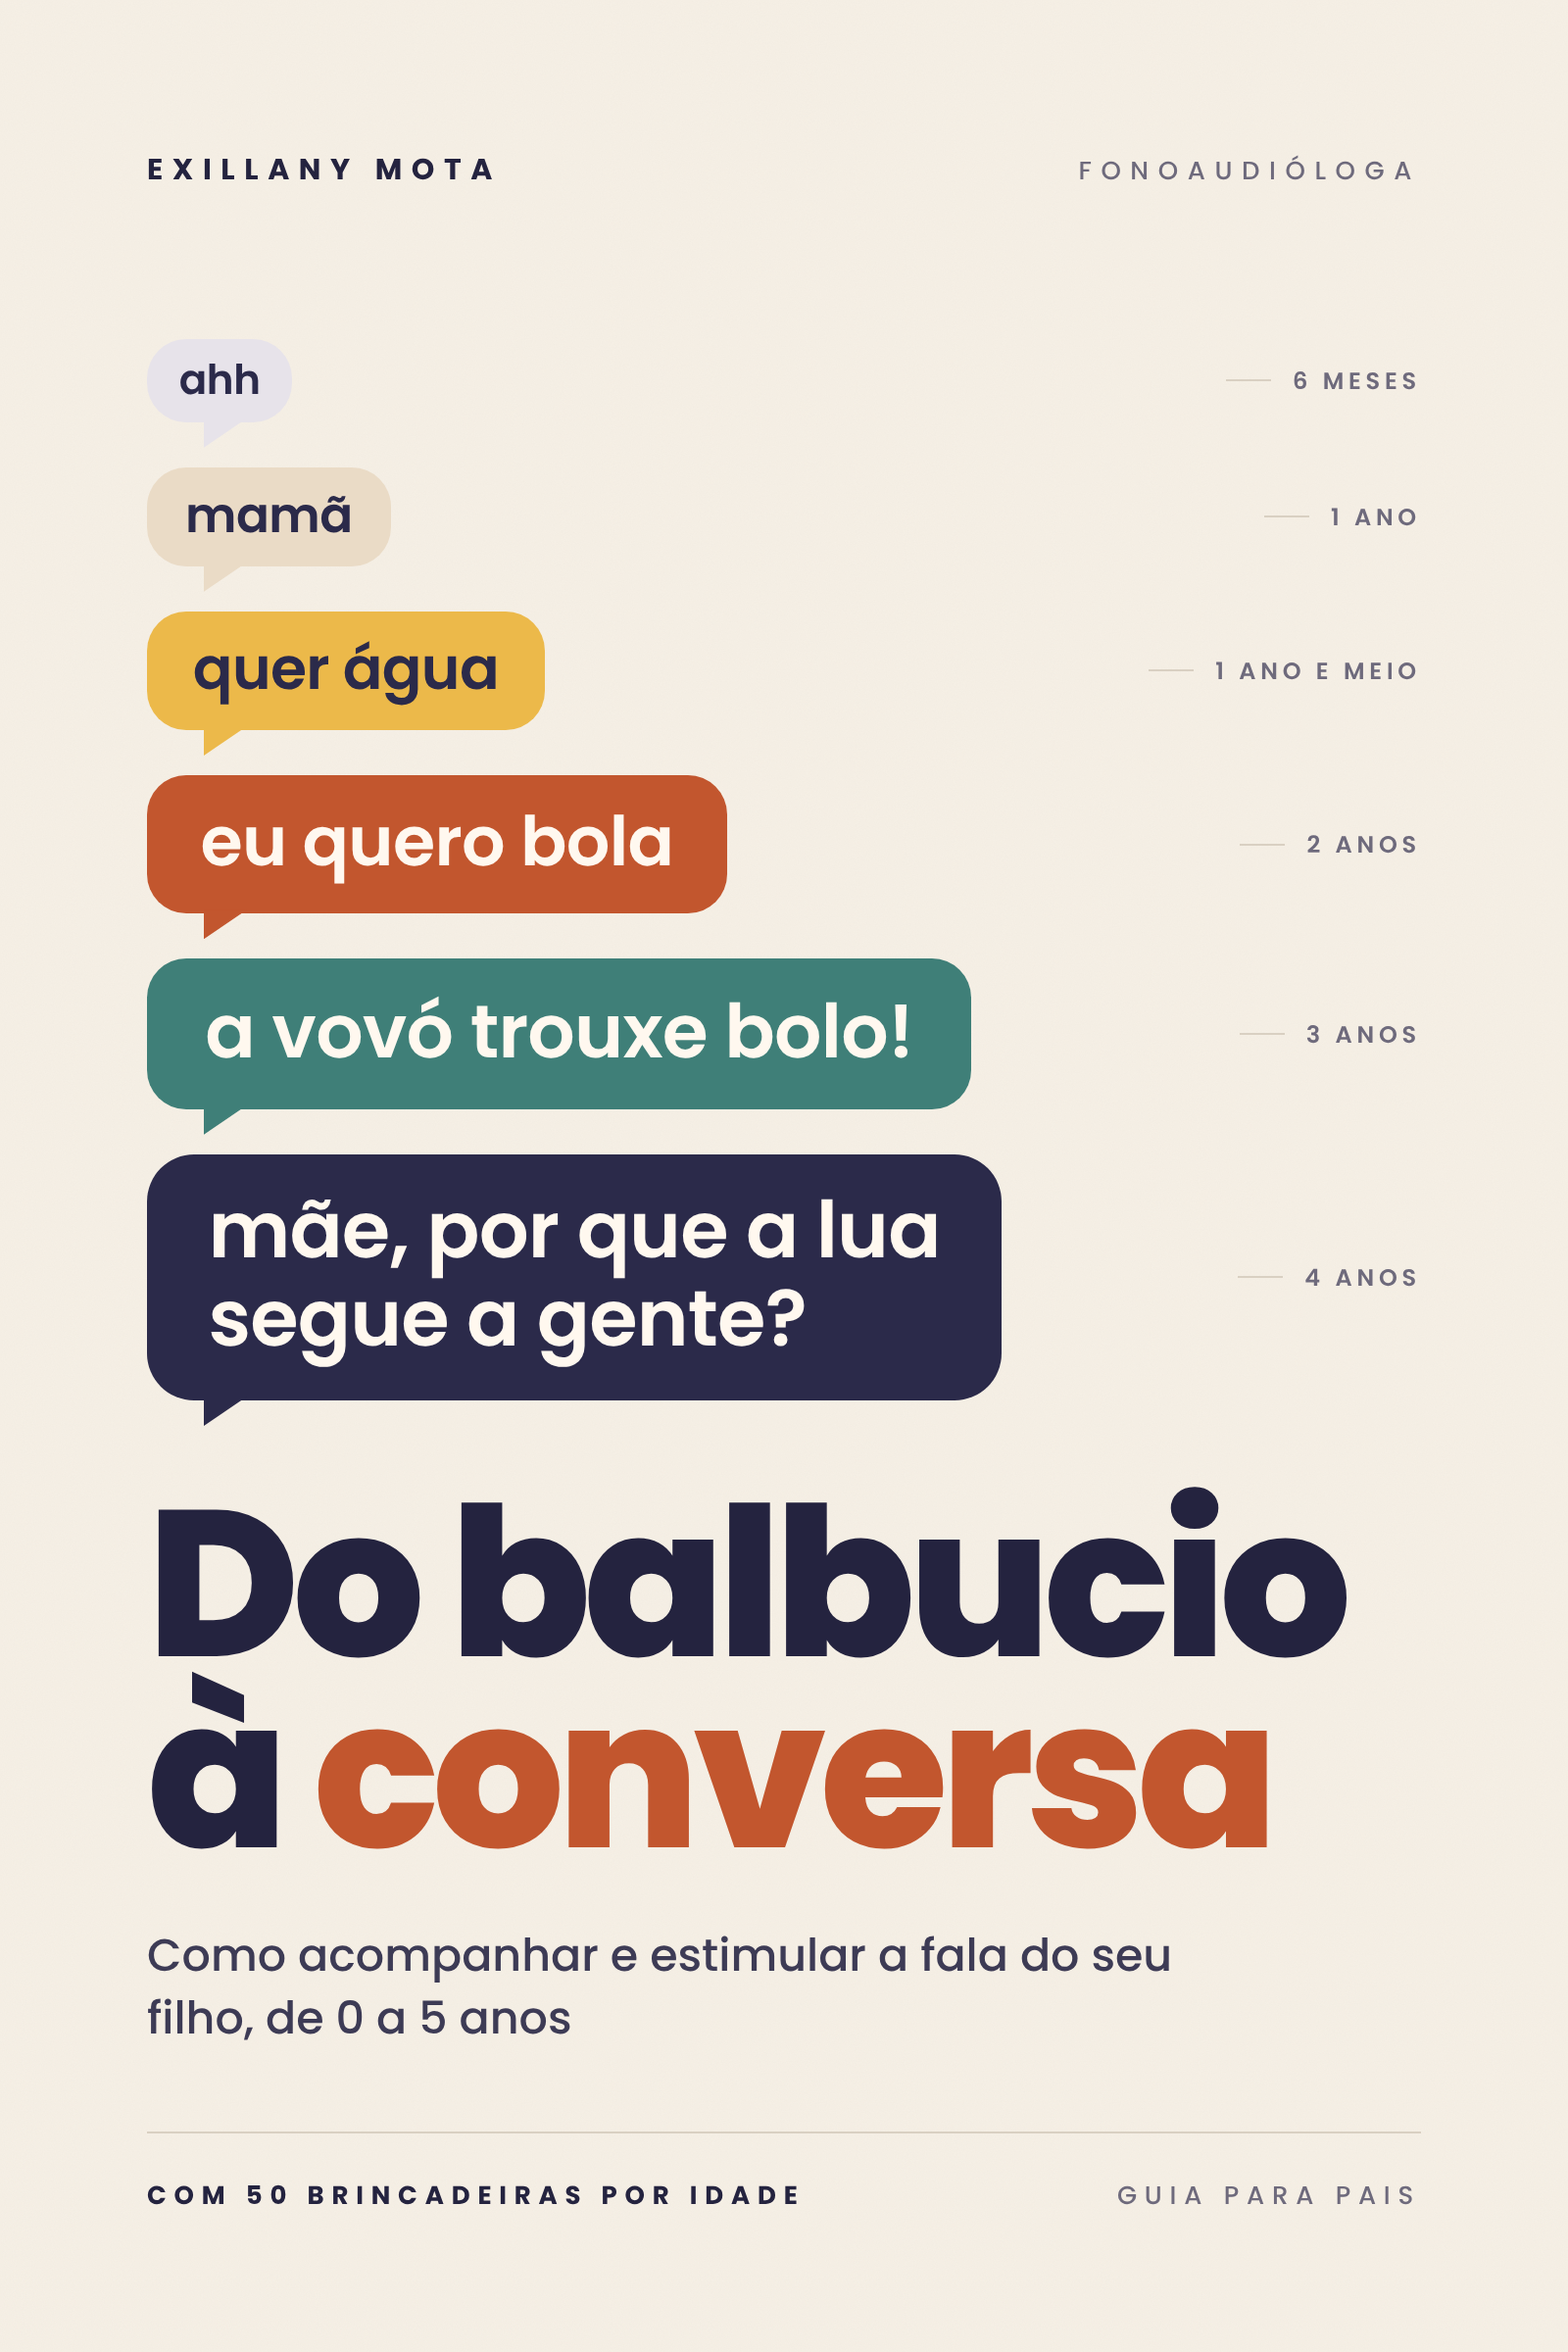
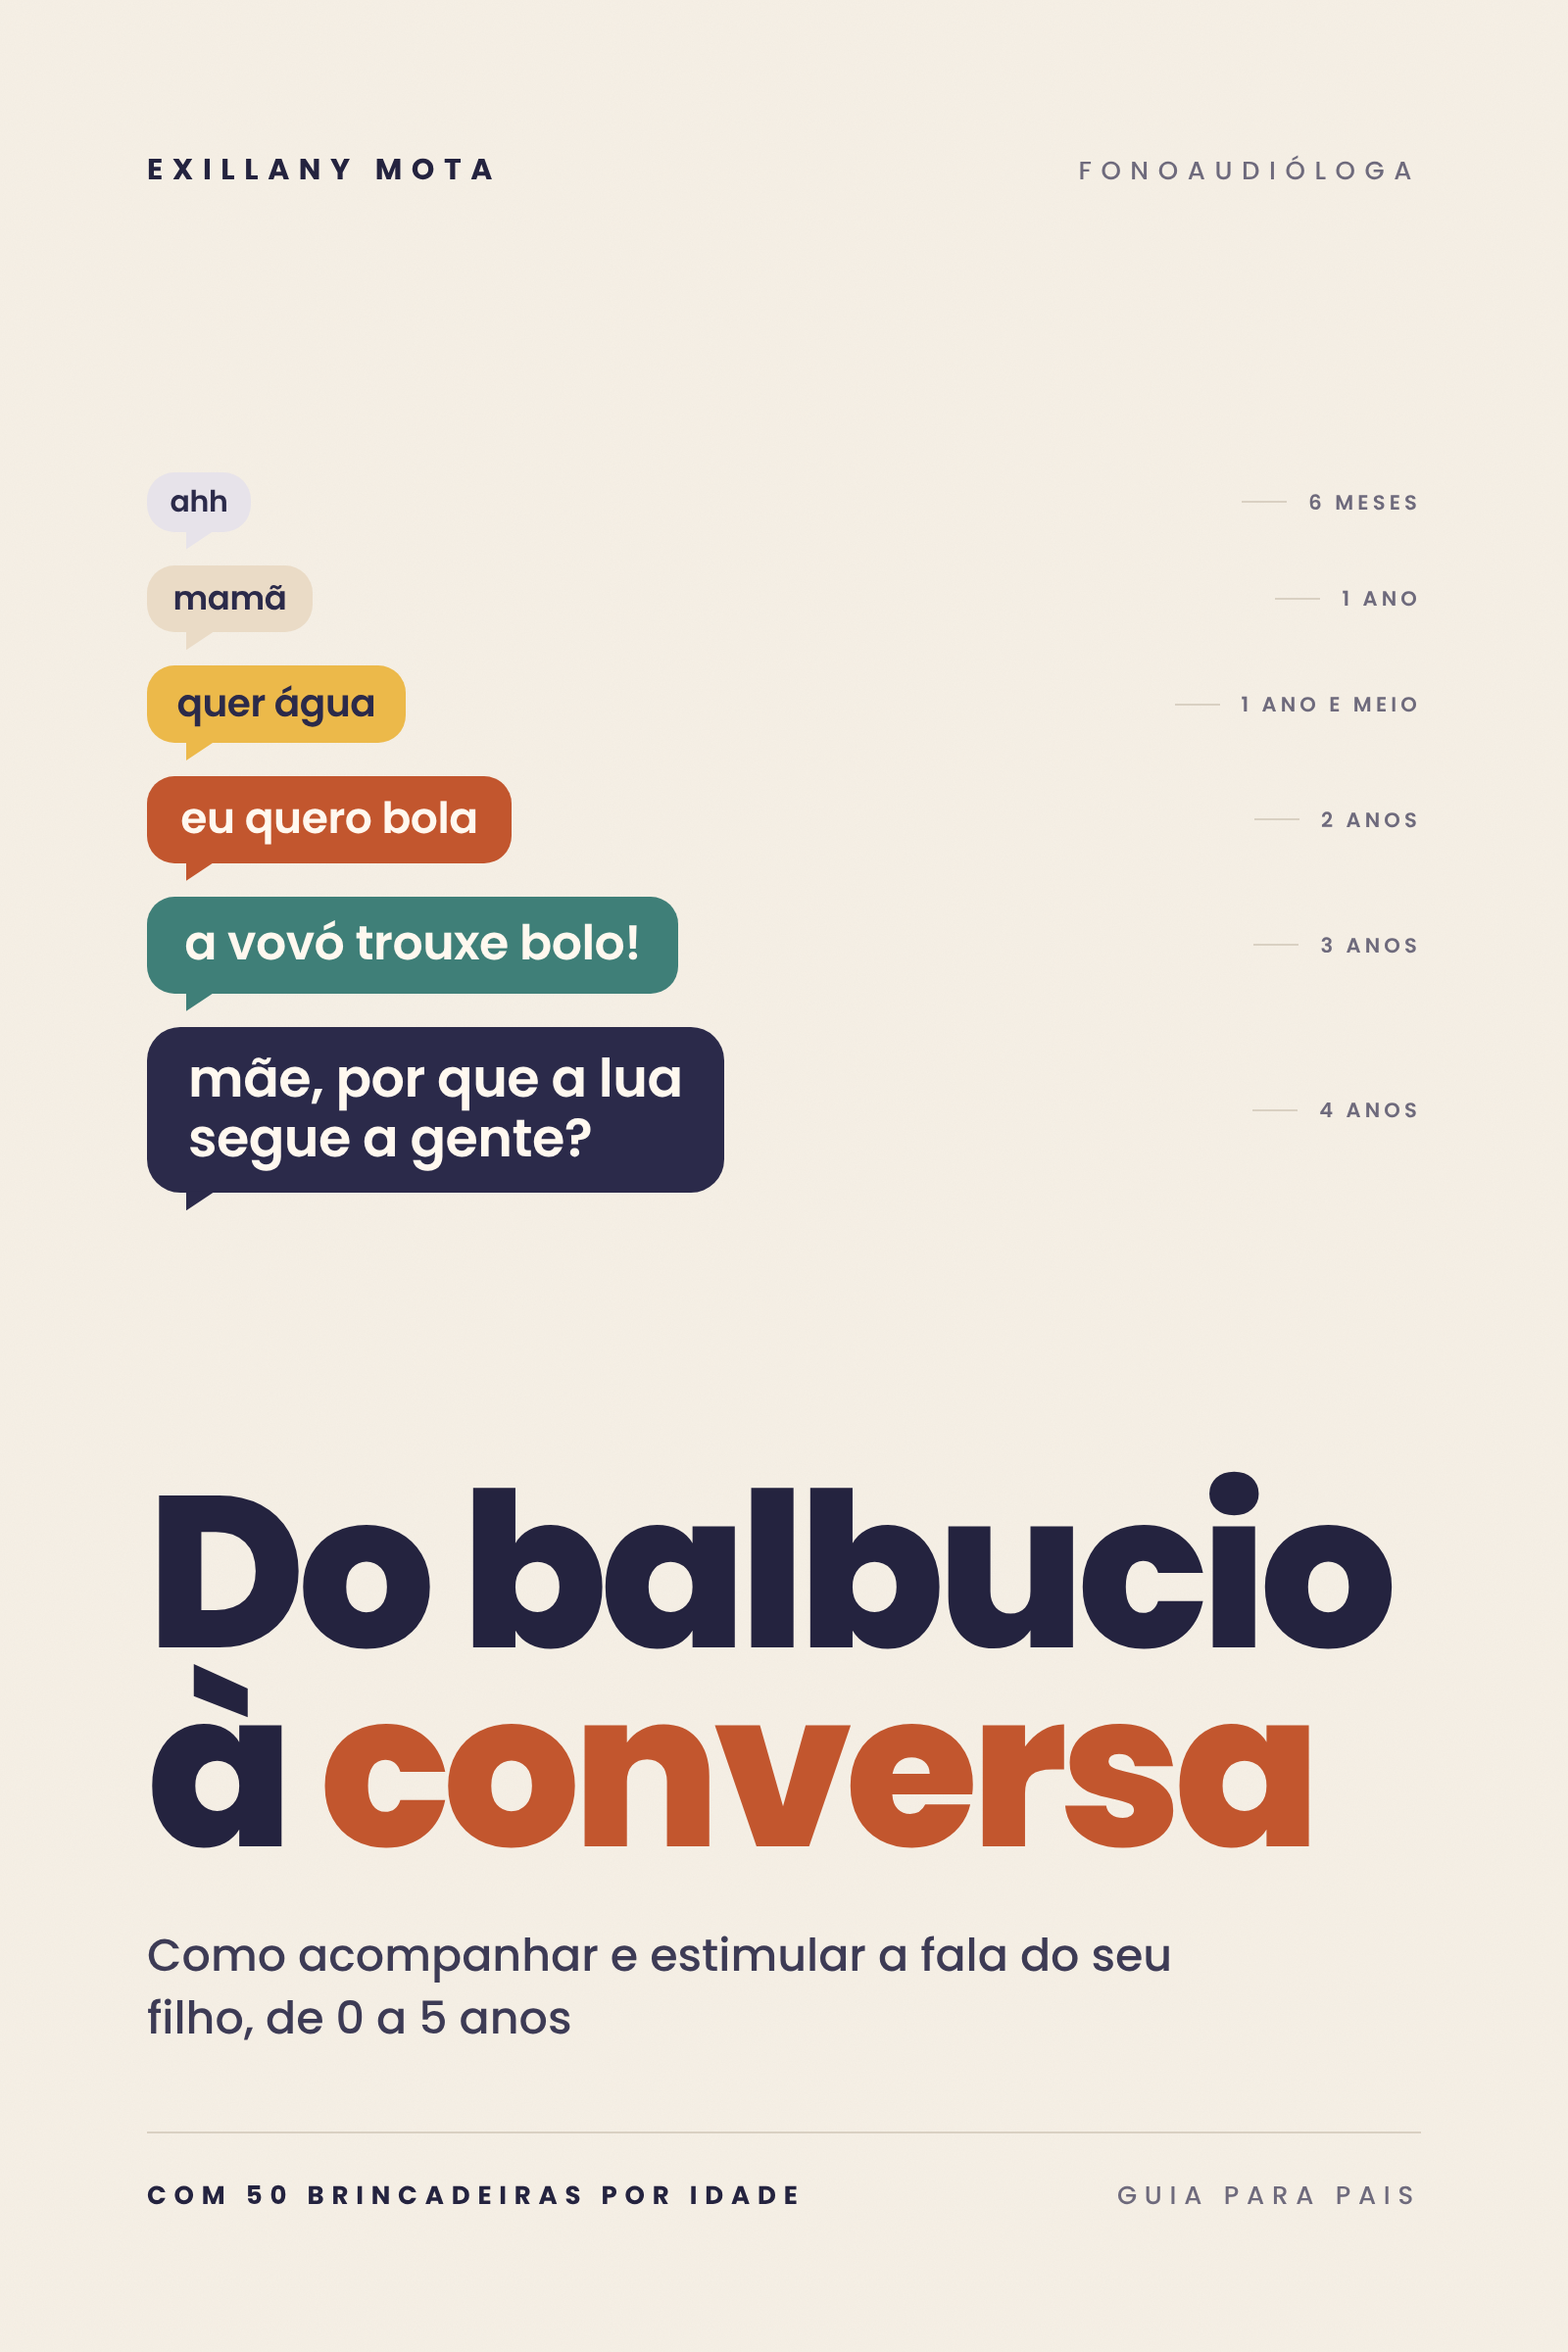
Shrink cover speech bubbles to balance the title
Claude-Session: https://claude.ai/code/session_01Fe3C8ZAr1N5SgMYGtteYkY

diff --git a/ebook-capa/capa.html b/ebook-capa/capa.html
@@ -24,23 +24,23 @@
   .top .role{font-weight:500;color:var(--muted);font-size:26px}
 
   /* conversa que cresce com a idade */
-  .chat{margin-top:150px;display:flex;flex-direction:column;gap:46px}
+  .chat{margin-top:auto;margin-bottom:auto;display:flex;flex-direction:column;gap:34px}
   .row{display:flex;align-items:center;justify-content:space-between;gap:40px}
-  .age{font-size:24px;font-weight:600;letter-spacing:.2em;text-transform:uppercase;
+  .age{font-size:21px;font-weight:600;letter-spacing:.2em;text-transform:uppercase;
     color:var(--muted);white-space:nowrap;display:flex;align-items:center;gap:22px}
   .age::before{content:"";width:46px;height:2px;background:var(--line)}
-  .b{position:relative;font-weight:600;line-height:1.12;border-radius:40px;
+  .b{position:relative;font-weight:600;line-height:1.12;border-radius:28px;
     padding:.42em .78em .48em;letter-spacing:-.01em}
-  .b::after{content:"";position:absolute;left:58px;bottom:-26px;width:44px;height:30px;
+  .b::after{content:"";position:absolute;left:40px;bottom:-18px;width:30px;height:20px;
     background:inherit;clip-path:polygon(0 0,100% 0,0 100%)}
-  .b1{font-size:42px;background:#e7e3ea;color:var(--navy)}
-  .b2{font-size:50px;background:var(--sand);color:var(--navy)}
-  .b3{font-size:60px;background:var(--mustard);color:var(--navy)}
-  .b4{font-size:70px;background:var(--clay);color:#fff8ef}
-  .b5{font-size:76px;background:var(--teal);color:#fff8ef}
-  .b6{font-size:80px;background:var(--navy);color:#fff8ef;border-radius:48px}
+  .b1{font-size:30px;background:#e7e3ea;color:var(--navy)}
+  .b2{font-size:34px;background:var(--sand);color:var(--navy)}
+  .b3{font-size:39px;background:var(--mustard);color:var(--navy)}
+  .b4{font-size:44px;background:var(--clay);color:#fff8ef}
+  .b5{font-size:49px;background:var(--teal);color:#fff8ef}
+  .b6{font-size:54px;background:var(--navy);color:#fff8ef;border-radius:34px}
 
-  .title{margin-top:auto;font-weight:800;font-size:212px;line-height:.92;letter-spacing:-.035em}
+  .title{font-weight:800;font-size:220px;line-height:.92;letter-spacing:-.035em}
   .title span{color:var(--clay)}
   .sub{margin-top:56px;font-size:46px;line-height:1.38;font-weight:500;color:#3d3b55;max-width:1080px}
   .foot{margin-top:84px;padding-top:44px;border-top:2px solid var(--line);
